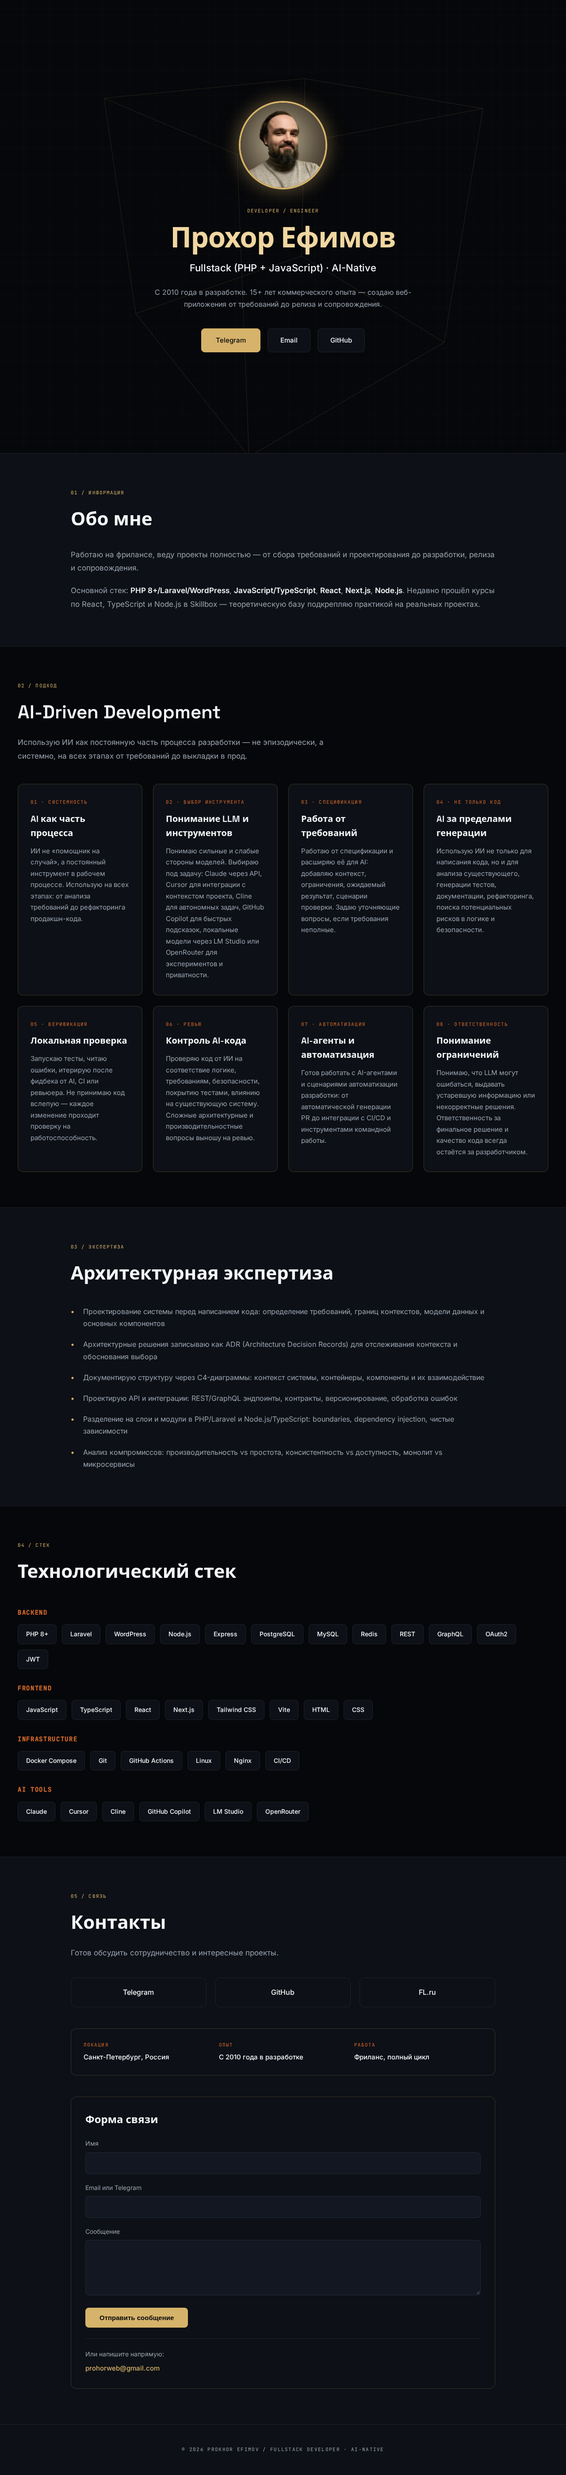
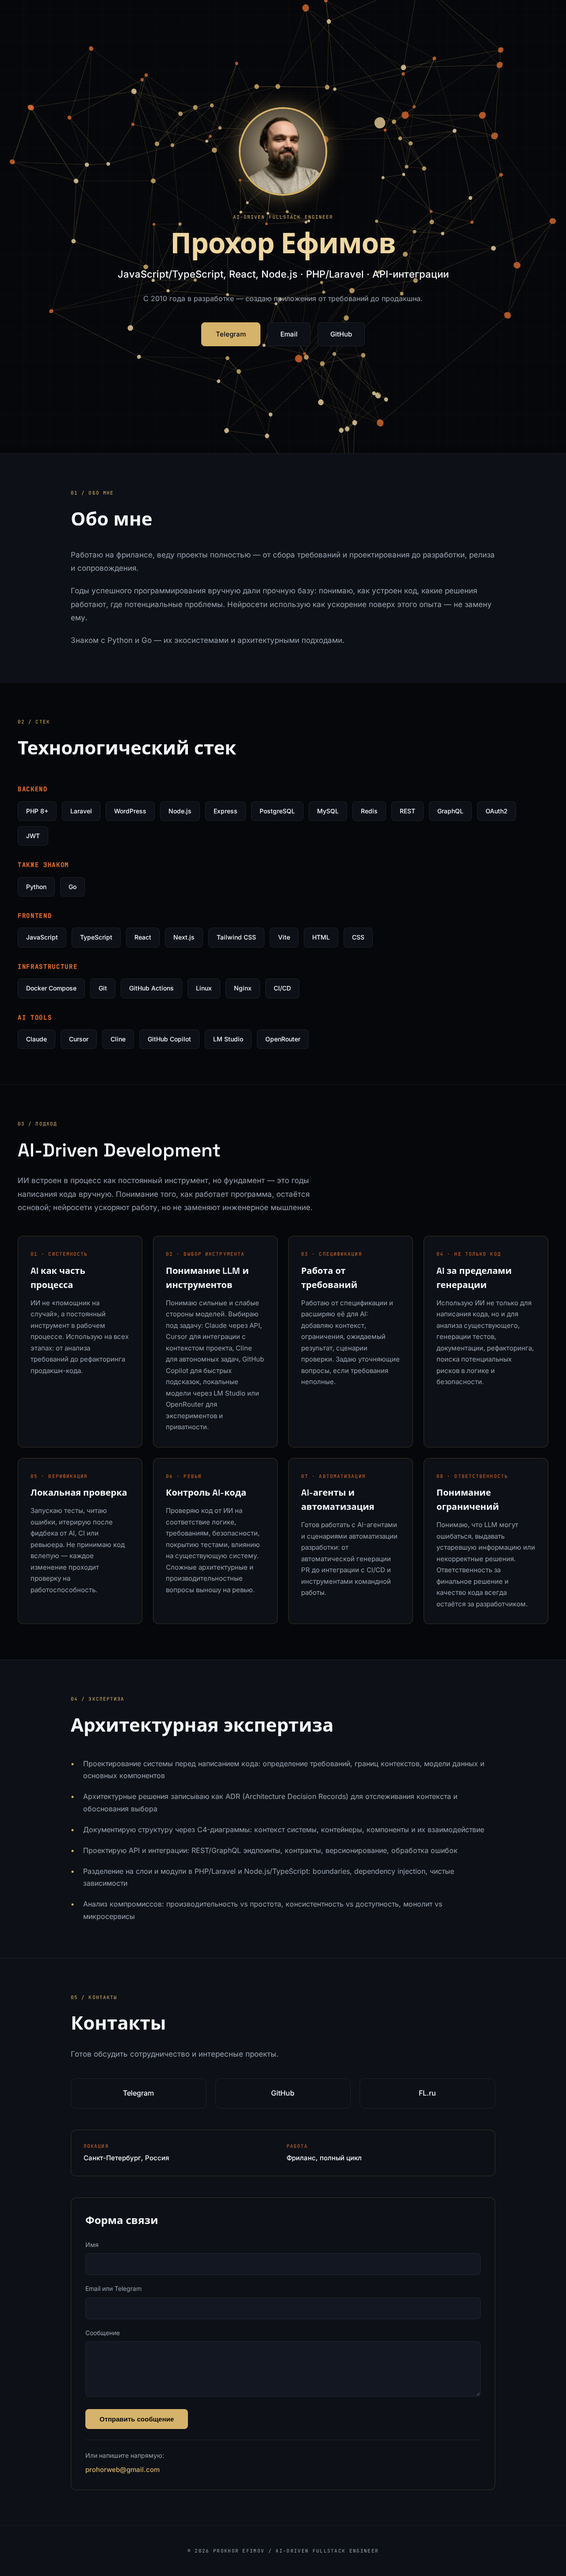
Complete landing refinement: AI-Driven Engineer, content tightening, neural network
Content & repetition removal:
- Experience stated once (hero: 'С 2010 года в разработке')
- Removed Skillbox/courses, added theoretical foundation + AI framing
- Added Python/Go familiarity
- Tightened meta, removed duplicates

Role & title:
- 'AI-Driven Fullstack Engineer' everywhere
- Hero subtitle: 'JavaScript/TypeScript, React, Node.js · PHP/Laravel · API-интеграции'

Sections reordered:
- About → Stack → AI → Architecture → Contacts

AI section:
- Based on hand-written programming fundamentals
- 8 cards, Claude + Cursor + Cline + Copilot + LM Studio + OpenRouter

Stack: Python, Go in 'Также знаком', Claude in AI Tools

Three.js: Neural network (nodes, connections, pulses, parallax)

diff --git a/src/components/ThreeScene.tsx b/src/components/ThreeScene.tsx
@@ -1,53 +1,206 @@
 import { useEffect, useRef } from 'react';
 import * as THREE from 'three';
 
+interface Node {
+  position: THREE.Vector3;
+  mesh: THREE.Mesh;
+  connections: number[];
+}
+
+interface Pulse {
+  fromIndex: number;
+  toIndex: number;
+  progress: number;
+  speed: number;
+}
+
 export default function ThreeScene() {
   const containerRef = useRef<HTMLDivElement>(null);
   const animationIdRef = useRef<number>();
+  const mouseRef = useRef({ x: 0, y: 0 });
 
   useEffect(() => {
     if (!containerRef.current) return;
     
     const prefersReducedMotion = window.matchMedia('(prefers-reduced-motion: reduce)').matches;
-    if (prefersReducedMotion) return;
-
+    const isMobile = window.innerWidth < 768;
+    
     const container = containerRef.current;
     const width = container.clientWidth;
     const height = container.clientHeight;
 
-    // Scene
+    // Scene setup
     const scene = new THREE.Scene();
     const camera = new THREE.PerspectiveCamera(50, width / height, 0.1, 1000);
-    camera.position.z = 12;
+    camera.position.z = 20;
 
-    const renderer = new THREE.WebGLRenderer({ alpha: true, antialias: true });
+    const renderer = new THREE.WebGLRenderer({ alpha: true, antialias: !isMobile });
     renderer.setSize(width, height);
-    renderer.setPixelRatio(Math.min(window.devicePixelRatio, 2));
+    renderer.setPixelRatio(Math.min(window.devicePixelRatio, isMobile ? 1 : 2));
     container.appendChild(renderer.domElement);
 
-    // Wireframe geometry
-    const geometry = new THREE.BoxGeometry(6, 6, 6, 4, 4, 4);
-    const edges = new THREE.EdgesGeometry(geometry);
-    const material = new THREE.LineBasicMaterial({ 
-      color: 0xD6B36A, 
-      transparent: true, 
-      opacity: 0.15 
+    // Colors
+    const gold = new THREE.Color(0xD6B36A);
+    const goldLight = new THREE.Color(0xF0D7A1);
+    const orange = new THREE.Color(0xD86A2D);
+
+    // Create neural network nodes
+    const nodeCount = isMobile ? 60 : 120;
+    const nodes: Node[] = [];
+    const nodeGeometry = new THREE.SphereGeometry(0.08, 8, 8);
+    
+    // Create nodes in layered sphere distribution
+    for (let i = 0; i < nodeCount; i++) {
+      const layer = Math.floor(i / (nodeCount / 3));
+      const radius = 6 + layer * 2;
+      const theta = Math.random() * Math.PI * 2;
+      const phi = Math.acos(2 * Math.random() - 1);
+      
+      const x = radius * Math.sin(phi) * Math.cos(theta);
+      const y = radius * Math.sin(phi) * Math.sin(theta);
+      const z = radius * Math.cos(phi);
+      
+      const nodeMaterial = new THREE.MeshBasicMaterial({
+        color: layer === 0 ? gold : layer === 1 ? goldLight : orange,
+        transparent: true,
+        opacity: 0.8
+      });
+      
+      const mesh = new THREE.Mesh(nodeGeometry, nodeMaterial);
+      mesh.position.set(x, y, z);
+      scene.add(mesh);
+      
+      nodes.push({
+        position: new THREE.Vector3(x, y, z),
+        mesh,
+        connections: []
+      });
+    }
+
+    // Create connections to nearest neighbors
+    const maxConnections = isMobile ? 3 : 4;
+    const connectionMaterial = new THREE.LineBasicMaterial({
+      color: gold,
+      transparent: true,
+      opacity: 0.15
     });
-    const wireframe = new THREE.LineSegments(edges, material);
-    scene.add(wireframe);
+    
+    const connections: THREE.Line[] = [];
+    
+    nodes.forEach((node, i) => {
+      const distances = nodes.map((n, j) => ({
+        index: j,
+        distance: node.position.distanceTo(n.position)
+      })).filter(d => d.index !== i);
+      
+      distances.sort((a, b) => a.distance - b.distance);
+      
+      const nearestCount = Math.min(maxConnections, distances.length);
+      for (let k = 0; k < nearestCount; k++) {
+        const targetIndex = distances[k].index;
+        if (!node.connections.includes(targetIndex)) {
+          node.connections.push(targetIndex);
+          
+          const geometry = new THREE.BufferGeometry().setFromPoints([
+            node.position,
+            nodes[targetIndex].position
+          ]);
+          const line = new THREE.Line(geometry, connectionMaterial);
+          scene.add(line);
+          connections.push(line);
+        }
+      }
+    });
+
+    // Create pulse system
+    const pulses: Pulse[] = [];
+    const pulseGeometry = new THREE.SphereGeometry(0.12, 8, 8);
+    const pulseMaterial = new THREE.MeshBasicMaterial({
+      color: goldLight,
+      transparent: true,
+      opacity: 0.9
+    });
+    const pulseMeshes: THREE.Mesh[] = [];
+    
+    const maxPulses = isMobile ? 8 : 15;
+    for (let i = 0; i < maxPulses; i++) {
+      const mesh = new THREE.Mesh(pulseGeometry, pulseMaterial.clone());
+      mesh.visible = false;
+      scene.add(mesh);
+      pulseMeshes.push(mesh);
+    }
 
     // Animation
     let isVisible = !document.hidden;
+    let rotation = 0;
+    let lastPulseTime = 0;
     
-    const animate = () => {
-      if (isVisible) {
-        wireframe.rotation.x += 0.002;
-        wireframe.rotation.y += 0.003;
+    const animate = (time: number) => {
+      if (isVisible && !prefersReducedMotion) {
+        // Slow rotation
+        rotation += 0.0005;
+        scene.rotation.y = rotation;
+        
+        // Mouse parallax
+        scene.rotation.x = mouseRef.current.y * 0.05;
+        scene.rotation.y = rotation + mouseRef.current.x * 0.05;
+        
+        // Update pulses
+        if (time - lastPulseTime > 800 && pulses.length < maxPulses) {
+          const nodeIndex = Math.floor(Math.random() * nodes.length);
+          const node = nodes[nodeIndex];
+          if (node.connections.length > 0) {
+            const targetIndex = node.connections[Math.floor(Math.random() * node.connections.length)];
+            pulses.push({
+              fromIndex: nodeIndex,
+              toIndex: targetIndex,
+              progress: 0,
+              speed: 0.01 + Math.random() * 0.02
+            });
+            lastPulseTime = time;
+          }
+        }
+        
+        pulses.forEach((pulse, i) => {
+          pulse.progress += pulse.speed;
+          
+          if (pulse.progress >= 1) {
+            pulses.splice(i, 1);
+            pulseMeshes[i].visible = false;
+          } else {
+            const fromPos = nodes[pulse.fromIndex].position;
+            const toPos = nodes[pulse.toIndex].position;
+            const pos = new THREE.Vector3().lerpVectors(fromPos, toPos, pulse.progress);
+            
+            pulseMeshes[i].position.copy(pos);
+            pulseMeshes[i].visible = true;
+            
+            const material = pulseMeshes[i].material as THREE.MeshBasicMaterial;
+            material.opacity = Math.sin(pulse.progress * Math.PI) * 0.9;
+          }
+        });
+        
+        renderer.render(scene, camera);
+      } else if (prefersReducedMotion) {
+        // Static or very slow rotation
+        rotation += 0.0001;
+        scene.rotation.y = rotation;
         renderer.render(scene, camera);
       }
+      
       animationIdRef.current = requestAnimationFrame(animate);
     };
-    animate();
+    
+    animate(0);
+
+    // Mouse parallax handler
+    const handleMouseMove = (e: MouseEvent) => {
+      if (!prefersReducedMotion) {
+        mouseRef.current.x = (e.clientX / window.innerWidth - 0.5) * 2;
+        mouseRef.current.y = (e.clientY / window.innerHeight - 0.5) * 2;
+      }
+    };
+    window.addEventListener('mousemove', handleMouseMove);
 
     // Resize handler
     const handleResize = () => {
@@ -71,12 +224,24 @@ export default function ThreeScene() {
       if (animationIdRef.current) {
         cancelAnimationFrame(animationIdRef.current);
       }
+      window.removeEventListener('mousemove', handleMouseMove);
       window.removeEventListener('resize', handleResize);
       document.removeEventListener('visibilitychange', handleVisibility);
       
-      geometry.dispose();
-      edges.dispose();
-      material.dispose();
+      nodeGeometry.dispose();
+      pulseGeometry.dispose();
+      nodes.forEach(node => {
+        (node.mesh.material as THREE.Material).dispose();
+      });
+      connections.forEach(conn => {
+        conn.geometry.dispose();
+        (conn.material as THREE.Material).dispose();
+      });
+      pulseMeshes.forEach(mesh => {
+        (mesh.material as THREE.Material).dispose();
+      });
+      connectionMaterial.dispose();
+      pulseMaterial.dispose();
       renderer.dispose();
       container.removeChild(renderer.domElement);
     };

diff --git a/index.html b/index.html
@@ -4,22 +4,22 @@
     <meta charset="UTF-8" />
     <link rel="icon" type="image/x-icon" href="/assets/img/favicon.ico" />
     <meta name="viewport" content="width=device-width, initial-scale=1.0" />
-    <title>Прохор Ефимов — Fullstack-разработчик (PHP + JavaScript) · AI-Native Developer</title>
-    <meta name="description" content="Fullstack-разработчик с 15+ годами опыта. PHP 8+/Laravel, JavaScript/TypeScript, React, Next.js. AI-Native подход к разработке.">
+    <title>Прохор Ефимов — AI-Driven Fullstack Engineer</title>
+    <meta name="description" content="AI-Driven Fullstack Engineer. JavaScript/TypeScript, React, Node.js, PHP/Laravel, API-интеграции.">
     <meta name="author" content="Прохор Ефимов">
     <link rel="canonical" href="https://prohordev.ru/">
     
     <!-- Open Graph -->
-    <meta property="og:title" content="Прохор Ефимов — Fullstack-разработчик · AI-Native Developer">
-    <meta property="og:description" content="Fullstack-разработчик с 15+ годами опыта. PHP 8+/Laravel, JavaScript/TypeScript, React, Next.js. AI-Native подход к разработке.">
+    <meta property="og:title" content="Прохор Ефимов — AI-Driven Fullstack Engineer">
+    <meta property="og:description" content="AI-Driven Fullstack Engineer. JavaScript/TypeScript, React, Node.js, PHP/Laravel, API-интеграции.">
     <meta property="og:type" content="website">
     <meta property="og:url" content="https://prohordev.ru/">
     <meta property="og:image" content="https://prohordev.ru/assets/img/profile.jpg">
     
     <!-- Twitter Card -->
     <meta name="twitter:card" content="summary">
-    <meta name="twitter:title" content="Прохор Ефимов — Fullstack-разработчик · AI-Native Developer">
-    <meta name="twitter:description" content="Fullstack-разработчик с 15+ годами опыта. PHP 8+/Laravel, JavaScript/TypeScript, React, Next.js.">
+    <meta name="twitter:title" content="Прохор Ефимов — AI-Driven Fullstack Engineer">
+    <meta name="twitter:description" content="AI-Driven Fullstack Engineer. JavaScript/TypeScript, React, Node.js, PHP/Laravel.">
     <meta name="twitter:image" content="https://prohordev.ru/assets/img/profile.jpg">
     
     <link rel="preconnect" href="https://fonts.googleapis.com">

diff --git a/src/App.tsx b/src/App.tsx
@@ -55,9 +55,9 @@ function App() {
         <Hero data={profileData} />
         <main>
           <About data={aboutData} />
+          <Stack data={stackData} />
           <AI data={aiData} />
           <Architecture data={architectureData} />
-          <Stack data={stackData} />
           <Contacts data={contactsData} />
         </main>
         <footer style={{ 
@@ -68,7 +68,7 @@ function App() {
         }}>
           <div style={{ maxWidth: '1200px', margin: '0 auto', padding: '0 32px' }}>
             <div className="mono" style={{ color: 'var(--secondary)', letterSpacing: '.12em' }}>
-              &copy; 2026 Prokhor Efimov / Fullstack Developer · AI-Native
+              &copy; 2026 Prokhor Efimov / AI-Driven Fullstack Engineer
             </div>
           </div>
         </footer>

diff --git a/README.md b/README.md
@@ -1,6 +1,6 @@
 # Прохор Ефимов — Portfolio Landing
 
-Персональный сайт-портфолио fullstack-разработчика с архитектурным уклоном и AI-Native подходом.
+Персональный сайт-портфолио AI-Driven Fullstack Engineer с архитектурным уклоном.
 
 ## 🏗 Архитектура
 
@@ -46,11 +46,11 @@
 
 **Весь контент находится в JSON-файлах** `src/data/` — можно редактировать без изменения кода компонентов:
 
-- **`profile.json`** — имя, заголовок, фото, ссылки (Telegram, Email, GitHub)
+- **`profile.json`** — имя, роль, стек, ссылки (Telegram, Email, GitHub)
 - **`about.json`** — раздел "Обо мне"
-- **`ai.json`** — раздел "Как я работаю с ИИ" (карточки A-D)
-- **`architecture.json`** — раздел "Архитектурная экспертиза" (список экспертиз)
 - **`stack.json`** — раздел "Технологический стек" (категории и теги)
+- **`ai.json`** — раздел "AI-Driven Development" (8 карточек)
+- **`architecture.json`** — раздел "Архитектурная экспертиза" (список экспертиз)
 - **`contacts.json`** — раздел "Контакты" (форма, ссылки, информация)
 
 Типы данных описаны в `src/types/data.ts` (TypeScript интерфейсы).
